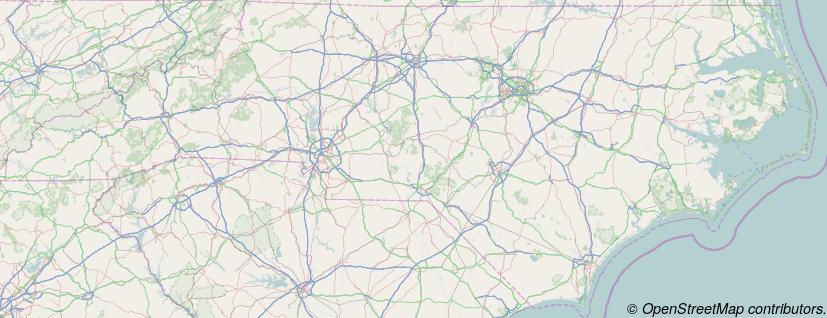
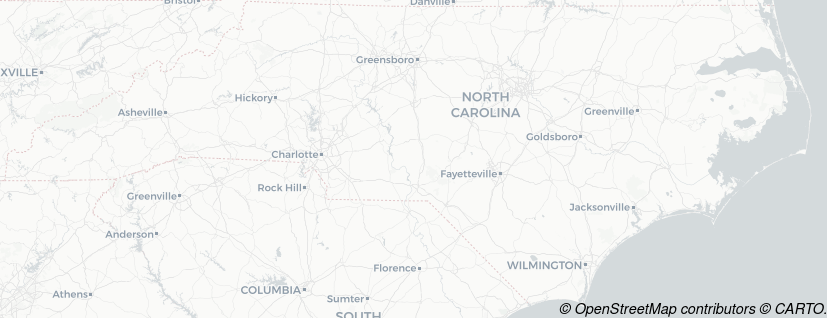
version 0.4.0

diff --git a/README.md b/README.md
@@ -1,13 +1,19 @@
 
 <!-- README.md is generated from README.Rmd. Please edit that file -->
 
-# maptiles
+# maptiles <img src="man/figures/logo.png" align="right" width="140"/>
 
 <!-- badges: start -->
 
-[![](https://www.r-pkg.org/badges/version/maptiles)](https://cran.r-project.org/package=maptiles)
-[![R-CMD-check](https://github.com/riatelab/maptiles/workflows/R-CMD-check/badge.svg)](https://github.com/riatelab/maptiles/actions)
-[![codecov](https://codecov.io/gh/riatelab/maptiles/branch/main/graph/badge.svg?token=R7T2PCTERH)](https://codecov.io/gh/riatelab/maptiles/)
+[![R-CMD-check](https://github.com/riatelab/maptiles/actions/workflows/check-standard.yaml/badge.svg)](https://github.com/riatelab/maptiles/actions/workflows/check-standard.yaml)
+[![Codecov test
+coverage](https://codecov.io/gh/riatelab/maptiles/branch/main/graph/badge.svg)](https://app.codecov.io/gh/riatelab/maptiles?branch=main)
+[![CRAN
+status](https://www.r-pkg.org/badges/version/maptiles)](https://CRAN.R-project.org/package=maptiles)
+![](https://cranlogs.r-pkg.org/badges/grand-total/maptiles) [![Project
+Status: Active – The project has reached a stable, usable state and is
+being actively
+developed.](https://www.repostatus.org/badges/latest/active.svg)](https://www.repostatus.org/#active)
 <!-- badges: end -->
 
 To create maps from tiles, `maptiles` downloads, composes and displays
@@ -31,7 +37,7 @@ remotes::install_github("riatelab/maptiles")
 ```
 
 **Note:** `maptiles` uses [`terra`](https://github.com/rspatial/terra)
-which requires a recent version of GDAL (&gt;= 3.0.4).
+which requires a recent version of GDAL (\>= 3.0.4).
 
 ## Demo
 
@@ -40,11 +46,11 @@ OpenStreetMap tiles over North Carolina:
 
 ``` r
 library(sf)
-#> Linking to GEOS 3.7.1, GDAL 3.1.2, PROJ 7.1.0
+#> Linking to GEOS 3.9.0, GDAL 3.2.2, PROJ 7.2.1; sf_use_s2() is TRUE
 library(maptiles)
 # import North Carolina counties
 nc_raw <- st_read(system.file("shape/nc.shp", package="sf"), 
-              quiet = TRUE)
+                  quiet = TRUE)
 # Project to EPSG:3857
 nc <- st_transform(nc_raw, "EPSG:3857")
 # dowload tiles and compose raster (SpatRaster)
@@ -69,28 +75,28 @@ tiles server and how to cache the original tiles for future use:
 
 ``` r
 # define the tile server parameters
-osmnolbl <- list(src = 'osmnolabel',
-                 q = 'https://{s}.tiles.wmflabs.org/osm-no-labels/{z}/{x}/{y}.png',
-                 sub = c('a','b', 'c'), 
-                 cit = '© OpenStreetMap contributors.')
+osmpos <- list(src = 'CARTO.POSITRON',
+               q = 'https://{s}.basemaps.cartocdn.com/light_all/{z}/{x}/{y}.png',
+               sub = c('a','b', 'c', 'd'), 
+               cit = '© OpenStreetMap contributors © CARTO.')
 # dowload tiles and compose raster (SpatRaster)
-nc_osmnolbl <- get_tiles(x = nc, provider = osmnolbl, crop = TRUE, 
-                         cachedir = tempdir(), verbose = TRUE)
-#> https://a.tiles.wmflabs.org/osm-no-labels/7/34/50.png => /tmp/RtmpTstEb7/osmnolabel/osmnolabel_7_34_50.png
-#> https://c.tiles.wmflabs.org/osm-no-labels/7/35/50.png => /tmp/RtmpTstEb7/osmnolabel/osmnolabel_7_35_50.png
-#> https://a.tiles.wmflabs.org/osm-no-labels/7/36/50.png => /tmp/RtmpTstEb7/osmnolabel/osmnolabel_7_36_50.png
-#> https://a.tiles.wmflabs.org/osm-no-labels/7/37/50.png => /tmp/RtmpTstEb7/osmnolabel/osmnolabel_7_37_50.png
-#> https://a.tiles.wmflabs.org/osm-no-labels/7/34/51.png => /tmp/RtmpTstEb7/osmnolabel/osmnolabel_7_34_51.png
-#> https://a.tiles.wmflabs.org/osm-no-labels/7/35/51.png => /tmp/RtmpTstEb7/osmnolabel/osmnolabel_7_35_51.png
-#> https://a.tiles.wmflabs.org/osm-no-labels/7/36/51.png => /tmp/RtmpTstEb7/osmnolabel/osmnolabel_7_36_51.png
-#> https://a.tiles.wmflabs.org/osm-no-labels/7/37/51.png => /tmp/RtmpTstEb7/osmnolabel/osmnolabel_7_37_51.png
+nc_osmpos <- get_tiles(x = nc, provider = osmpos, crop = TRUE, 
+                       cachedir = tempdir(), verbose = TRUE)
+#> https://b.basemaps.cartocdn.com/light_all/7/34/50.png => /tmp/RtmpFGXOix/CARTO.POSITRON/CARTO.POSITRON_7_34_50.png
+#> https://d.basemaps.cartocdn.com/light_all/7/35/50.png => /tmp/RtmpFGXOix/CARTO.POSITRON/CARTO.POSITRON_7_35_50.png
+#> https://b.basemaps.cartocdn.com/light_all/7/36/50.png => /tmp/RtmpFGXOix/CARTO.POSITRON/CARTO.POSITRON_7_36_50.png
+#> https://a.basemaps.cartocdn.com/light_all/7/37/50.png => /tmp/RtmpFGXOix/CARTO.POSITRON/CARTO.POSITRON_7_37_50.png
+#> https://d.basemaps.cartocdn.com/light_all/7/34/51.png => /tmp/RtmpFGXOix/CARTO.POSITRON/CARTO.POSITRON_7_34_51.png
+#> https://d.basemaps.cartocdn.com/light_all/7/35/51.png => /tmp/RtmpFGXOix/CARTO.POSITRON/CARTO.POSITRON_7_35_51.png
+#> https://b.basemaps.cartocdn.com/light_all/7/36/51.png => /tmp/RtmpFGXOix/CARTO.POSITRON/CARTO.POSITRON_7_36_51.png
+#> https://a.basemaps.cartocdn.com/light_all/7/37/51.png => /tmp/RtmpFGXOix/CARTO.POSITRON/CARTO.POSITRON_7_37_51.png
 #> Zoom:7
 #> Data and map tiles sources:
-#> © OpenStreetMap contributors.
+#> © OpenStreetMap contributors © CARTO.
 # display map
-plot_tiles(nc_osmnolbl)
+plot_tiles(nc_osmpos)
 # display credits
-mtext(text = osmnolbl$cit, side = 1, line = -1, 
+mtext(text = osmpos$cit, side = 1, line = -1, 
       adj = 1, cex = .9, font = 3)
 ```
 
@@ -138,18 +144,17 @@ different providers and to have a minimal number of robust and modern
 dependencies. However, depending on the use case, one of following
 packages may better suit your needs:
 
--   [`ceramic`](https://github.com/hypertidy/ceramic)  
--   [`ggmap`](https://github.com/dkahle/ggmap) (`ggplot2` focused)
--   [`ggspatial`](https://github.com/paleolimbot/ggspatial) (`ggplot2`
-    focused, based on `rosm`)
--   [`mapboxapi`](https://github.com/walkerke/mapboxapi) (mapbox)
--   [`mapsapi`](https://github.com/michaeldorman/mapsapi/) (google,
-    based on `RgoogleMaps`)
--   [`OpenStreetMap`](https://github.com/ifellows/ROSM) (requires Java)
--   [`RgoogleMaps`](https://github.com/markusloecher/rgooglemaps)
-    (google)
--   [`rosm`](https://github.com/paleolimbot/rosm)
--   …
+- [`ceramic`](https://github.com/hypertidy/ceramic)  
+- [`ggmap`](https://github.com/dkahle/ggmap) (`ggplot2` focused)
+- [`ggspatial`](https://github.com/paleolimbot/ggspatial) (`ggplot2`
+  focused, based on `rosm`)
+- [`mapboxapi`](https://github.com/walkerke/mapboxapi) (mapbox)
+- [`mapsapi`](https://github.com/michaeldorman/mapsapi/) (google, based
+  on `RgoogleMaps`)
+- [`OpenStreetMap`](https://github.com/ifellows/ROSM) (requires Java)
+- [`RgoogleMaps`](https://github.com/markusloecher/rgooglemaps) (google)
+- [`rosm`](https://github.com/paleolimbot/rosm)
+- …
 
 ## Note
 

diff --git a/NEWS.md b/NEWS.md
@@ -1,3 +1,12 @@
+# maptiles 0.4.0
+
+## Bug fixes
+* Fix issue that stopped downloading tile sets that span different orders of magnitude
+* Fix error message from GDAL for raster with nodata values 
+* Allow 'jpeg' tile extension 
+* Fail gracefully if the tile server is not responding
+
+
 # maptiles 0.3.0
 
 ## Minor changes
